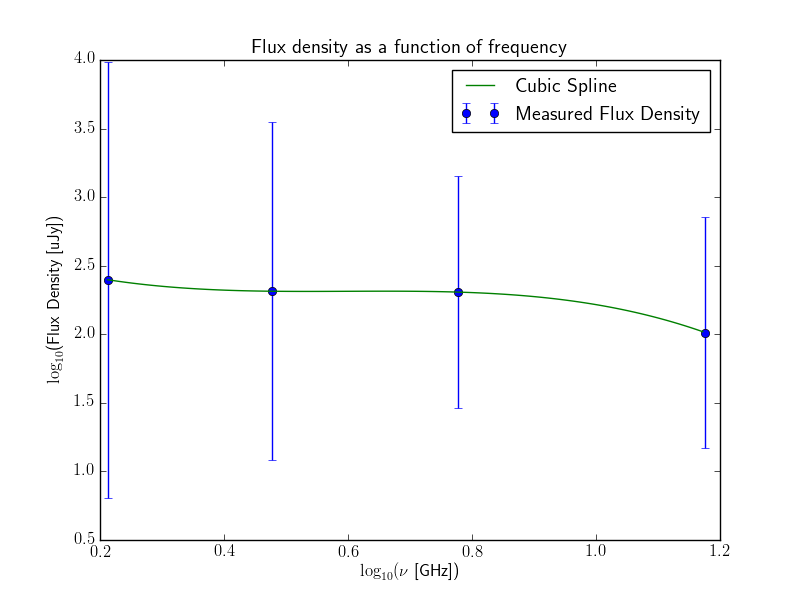
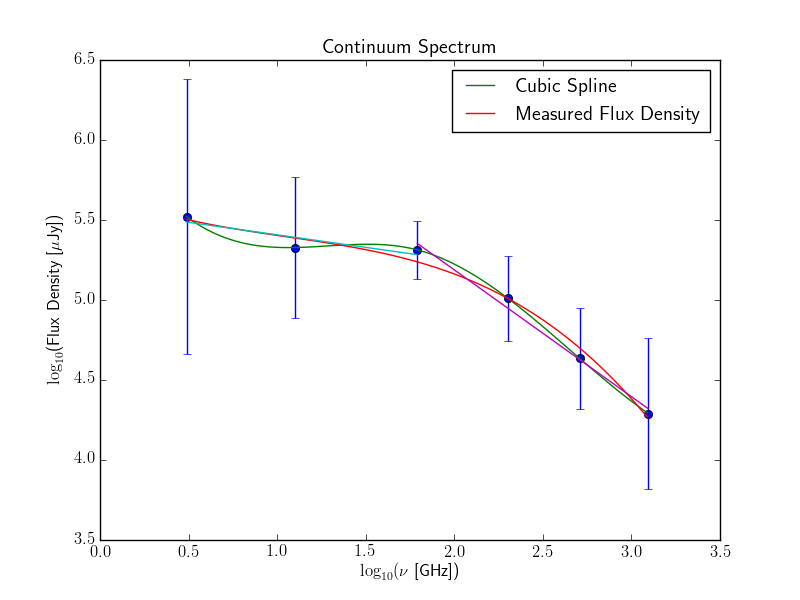
added plot stuff

diff --git a/plotter.py b/plotter.py
@@ -2,6 +2,11 @@ import numpy as np
 import matplotlib.pyplot as plt
 from matplotlib import rc
 from scipy.interpolate import CubicSpline
+from scipy.interpolate import UnivariateSpline
+from scipy.optimize import curve_fit
+
+def line(x,a,c):
+    return x*b+c
 
 rc('font',**{'family':'sans-serif','sans-serif':['Computer Modern Roman','Helvetica']})#makes the plots have pretty fonts
 rc('text', usetex=True)
@@ -9,25 +14,36 @@ rc('text', usetex=True)
 fluxes = np.loadtxt('fluxes.txt',skiprows=1)#load fluxes from file
 print("fluxes={0}".format(fluxes))
 
-spline = CubicSpline(np.log10(fluxes[:,0]),np.log10(fluxes[:,1]))
-xspline = np.arange(np.amin(np.log10(fluxes[:,0])), np.max(np.log10(fluxes[:,0])),0.01)
+spline = CubicSpline(np.log(fluxes[:,0]),np.log(fluxes[:,1]))
+uspline = UnivariateSpline(np.log(fluxes[:,0]),np.log(fluxes[:,1]))
+xspline = np.arange(np.amin(np.log(fluxes[:,0])), np.max(np.log(fluxes[:,0])),0.01)
+line1 =  np.polyfit( np.log(fluxes[0:3,0]),np.log(fluxes[0:3,1]),1)
+line2 =  np.polyfit(np.log(fluxes[2:6,0]),np.log(fluxes[2:6,1]),1)
+x1 =  np.arange(np.amin(np.log(fluxes[0:3,0])), np.max(np.log(fluxes[0:3,0])),0.01)
+x2 =  np.arange(np.amin(np.log(fluxes[2:6,0])), np.max(np.log(fluxes[2:6,0])),0.01)
+p1 = np.poly1d(line1)
+p2 = np.poly1d(line2)
+
 fig1 = plt.figure()#plot fluxes
 ax1 = fig1.add_subplot(111)
-ax1.errorbar(np.log10(fluxes[:,0]),np.log10(fluxes[:,1]),yerr=np.log10(fluxes[:,2]),fmt='o')
+ax1.errorbar(np.log(fluxes[:,0]),np.log(fluxes[:,1]),yerr=np.multiply(np.divide(np.log(fluxes[:,1]),fluxes[:,1]),fluxes[:,2]),fmt='o')
 #print(xspline)
 #print(spline(xspline))
 ax1.plot(xspline,spline(xspline))
-ax1.set_title(r"Flux density as a function of frequency")
-ax1.set_xlabel(r"$\log_{10}(\nu$ [GHz])")
-ax1.set_ylabel(r"$\log_{10}$(Flux Density [uJy])")
+ax1.plot(xspline,uspline(xspline))
+ax1.plot(x1,p1(x1), x2, p2(x2))
+ax1.set_title(r"Continuum Spectrum")
+ax1.set_xlabel(r"$\log_{e}(\nu$ [GHz])")
+ax1.set_ylabel(r"$\log_{e}$(Flux Density [$\mu$Jy])")
 ax1.legend(["Cubic Spline","Measured Flux Density"], loc='best')
 fig1.savefig('fluxVsFreq.png')#, bbox_inches='tight')
 #plt.legend()
-plt.show()
+#plt.show()
 
 fig2 = plt.figure()
 ax2 = fig2.add_subplot(111)
-ax2.plot(xspline,spline(xspline,1))
+ax2.plot(xspline,spline.derivative(1)(xspline))
+ax2.plot(xspline,uspline.derivative()(xspline))
 ax2.set_title(r"Spectral index as a function of frequency")
 ax2.set_xlabel(r"$\log_{10}(\nu$ [GHz])")
 ax2.set_ylabel(r"$\alpha$")
